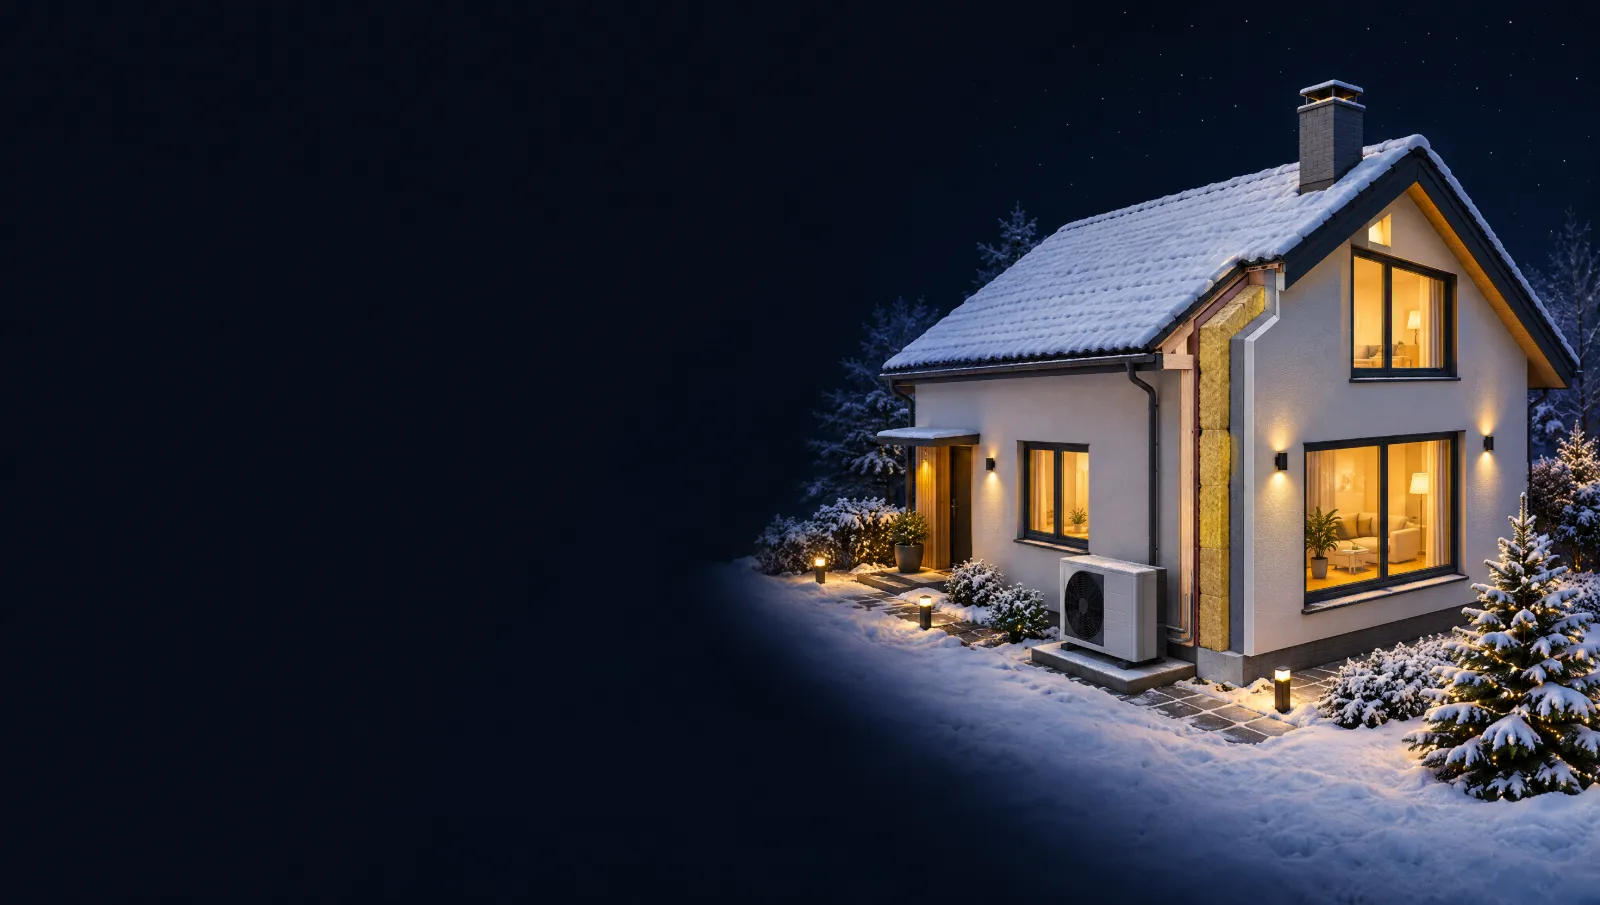
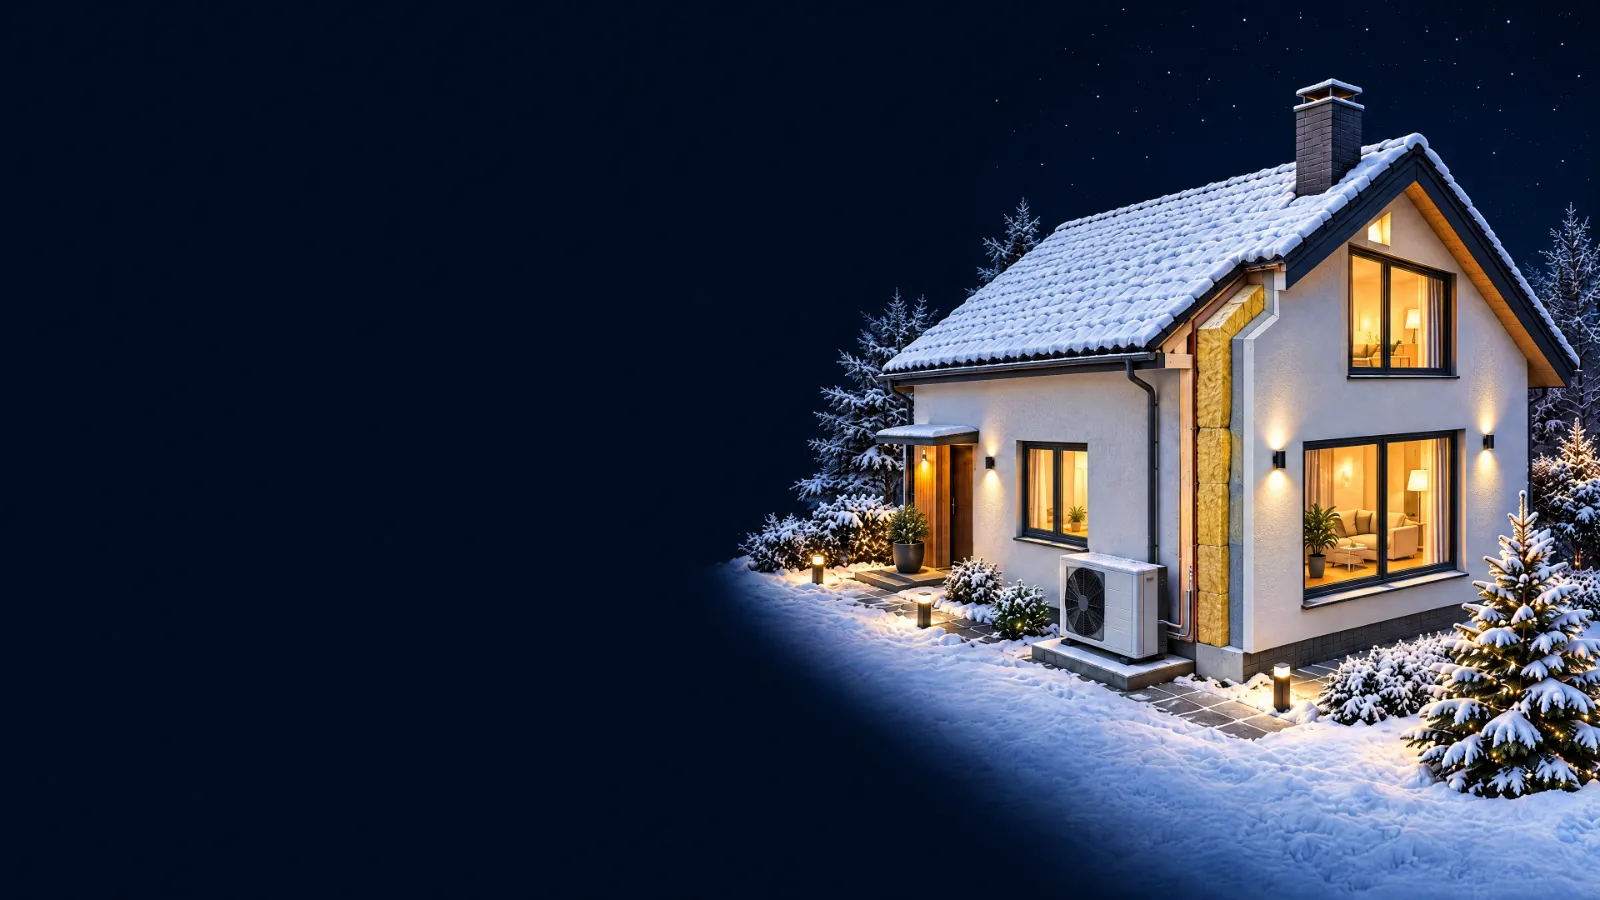
Czyste Powietrze: nowy podglad linku i tlo koncowego CTA z renderu 4k
- og-czyste-powietrze-2026-10.jpg: nowe tlo 4k (stara kompozycja jako
  referencja), tekst bez zmian, skladany kodem; nowa nazwa pliku, bo
  Facebook cache'uje og:image po URL; stary plik usuniety
- tlo koncowego CTA (cta-dom-zima 800/1600/2400) z tego samego renderu;
  wariant 2400 mocniej skompresowany (0.74)
- atrybut height obrazka CTA 905 -> 900 (nowy render ma dokladnie 16:9)

Changed region(s): [[0.4375, 0.0933, 1.0, 1.0]]

diff --git a/public/czyste-powietrze.html b/public/czyste-powietrze.html
@@ -30,7 +30,7 @@
     <meta property="og:url" content="https://kamilbronisz.pl/czyste-powietrze.html" />
     <meta property="og:title" content="Czyste Powietrze 2026 — dotacja na wymianę pieca i termomodernizację" />
     <meta property="og:description" content="Sprawdź w 20 sekund, czy łapiesz się na dofinansowanie do wymiany starego pieca (pompa ciepła, pellet, piec zgazowujący drewno) i termomodernizacji. Pomagam przejść przez wniosek. Działam na terenie całego województwa lubelskiego." />
-    <meta property="og:image" content="https://kamilbronisz.pl/og-czyste-powietrze-2026.jpg" />
+    <meta property="og:image" content="https://kamilbronisz.pl/og-czyste-powietrze-2026-10.jpg" />
     <meta property="og:image:width" content="1200" />
     <meta property="og:image:height" content="630" />
     <meta property="og:image:alt" content="Czyste Powietrze — dotacja na wymianę pieca i termomodernizację, od 40% do 100% kosztów kwalifikowanych. Kamil Bronisz, woj. lubelskie" />
@@ -40,7 +40,7 @@
     <meta name="twitter:card" content="summary_large_image" />
     <meta name="twitter:title" content="Czyste Powietrze 2026 — dotacja na wymianę pieca i termomodernizację" />
     <meta name="twitter:description" content="Sprawdź, czy łapiesz się na dofinansowanie do wymiany pieca i termomodernizacji. Całe województwo lubelskie." />
-    <meta name="twitter:image" content="https://kamilbronisz.pl/og-czyste-powietrze-2026.jpg" />
+    <meta name="twitter:image" content="https://kamilbronisz.pl/og-czyste-powietrze-2026-10.jpg" />
     <link rel="icon" type="image/svg+xml" href="favicon.svg" />
     <link rel="preconnect" href="https://fonts.googleapis.com" />
     <link rel="preconnect" href="https://fonts.gstatic.com" crossorigin />
@@ -1190,7 +1190,7 @@
 
       <section class="wrap" id="kontakt">
         <div class="final">
-          <img class="final-bg" src="grafiki-czyste-powietrze/cta-dom-zima-1600.webp" srcset="grafiki-czyste-powietrze/cta-dom-zima-800.webp 800w, grafiki-czyste-powietrze/cta-dom-zima-1600.webp 1600w, grafiki-czyste-powietrze/cta-dom-zima-2400.webp 2400w" sizes="(min-width: 980px) 940px, 100vw" width="1600" height="905" alt="" loading="lazy" decoding="async" />
+          <img class="final-bg" src="grafiki-czyste-powietrze/cta-dom-zima-1600.webp" srcset="grafiki-czyste-powietrze/cta-dom-zima-800.webp 800w, grafiki-czyste-powietrze/cta-dom-zima-1600.webp 1600w, grafiki-czyste-powietrze/cta-dom-zima-2400.webp 2400w" sizes="(min-width: 980px) 940px, 100vw" width="1600" height="900" alt="" loading="lazy" decoding="async" />
           <div class="final-body">
           <h2>Sprawdź, czy łapiesz się na Czyste Powietrze</h2>
           <p>Bezpłatna analiza — sprawdzę Twój poziom dofinansowania i połączę go z oszczędnościami z fotowoltaiki i magazynu energii.</p>
